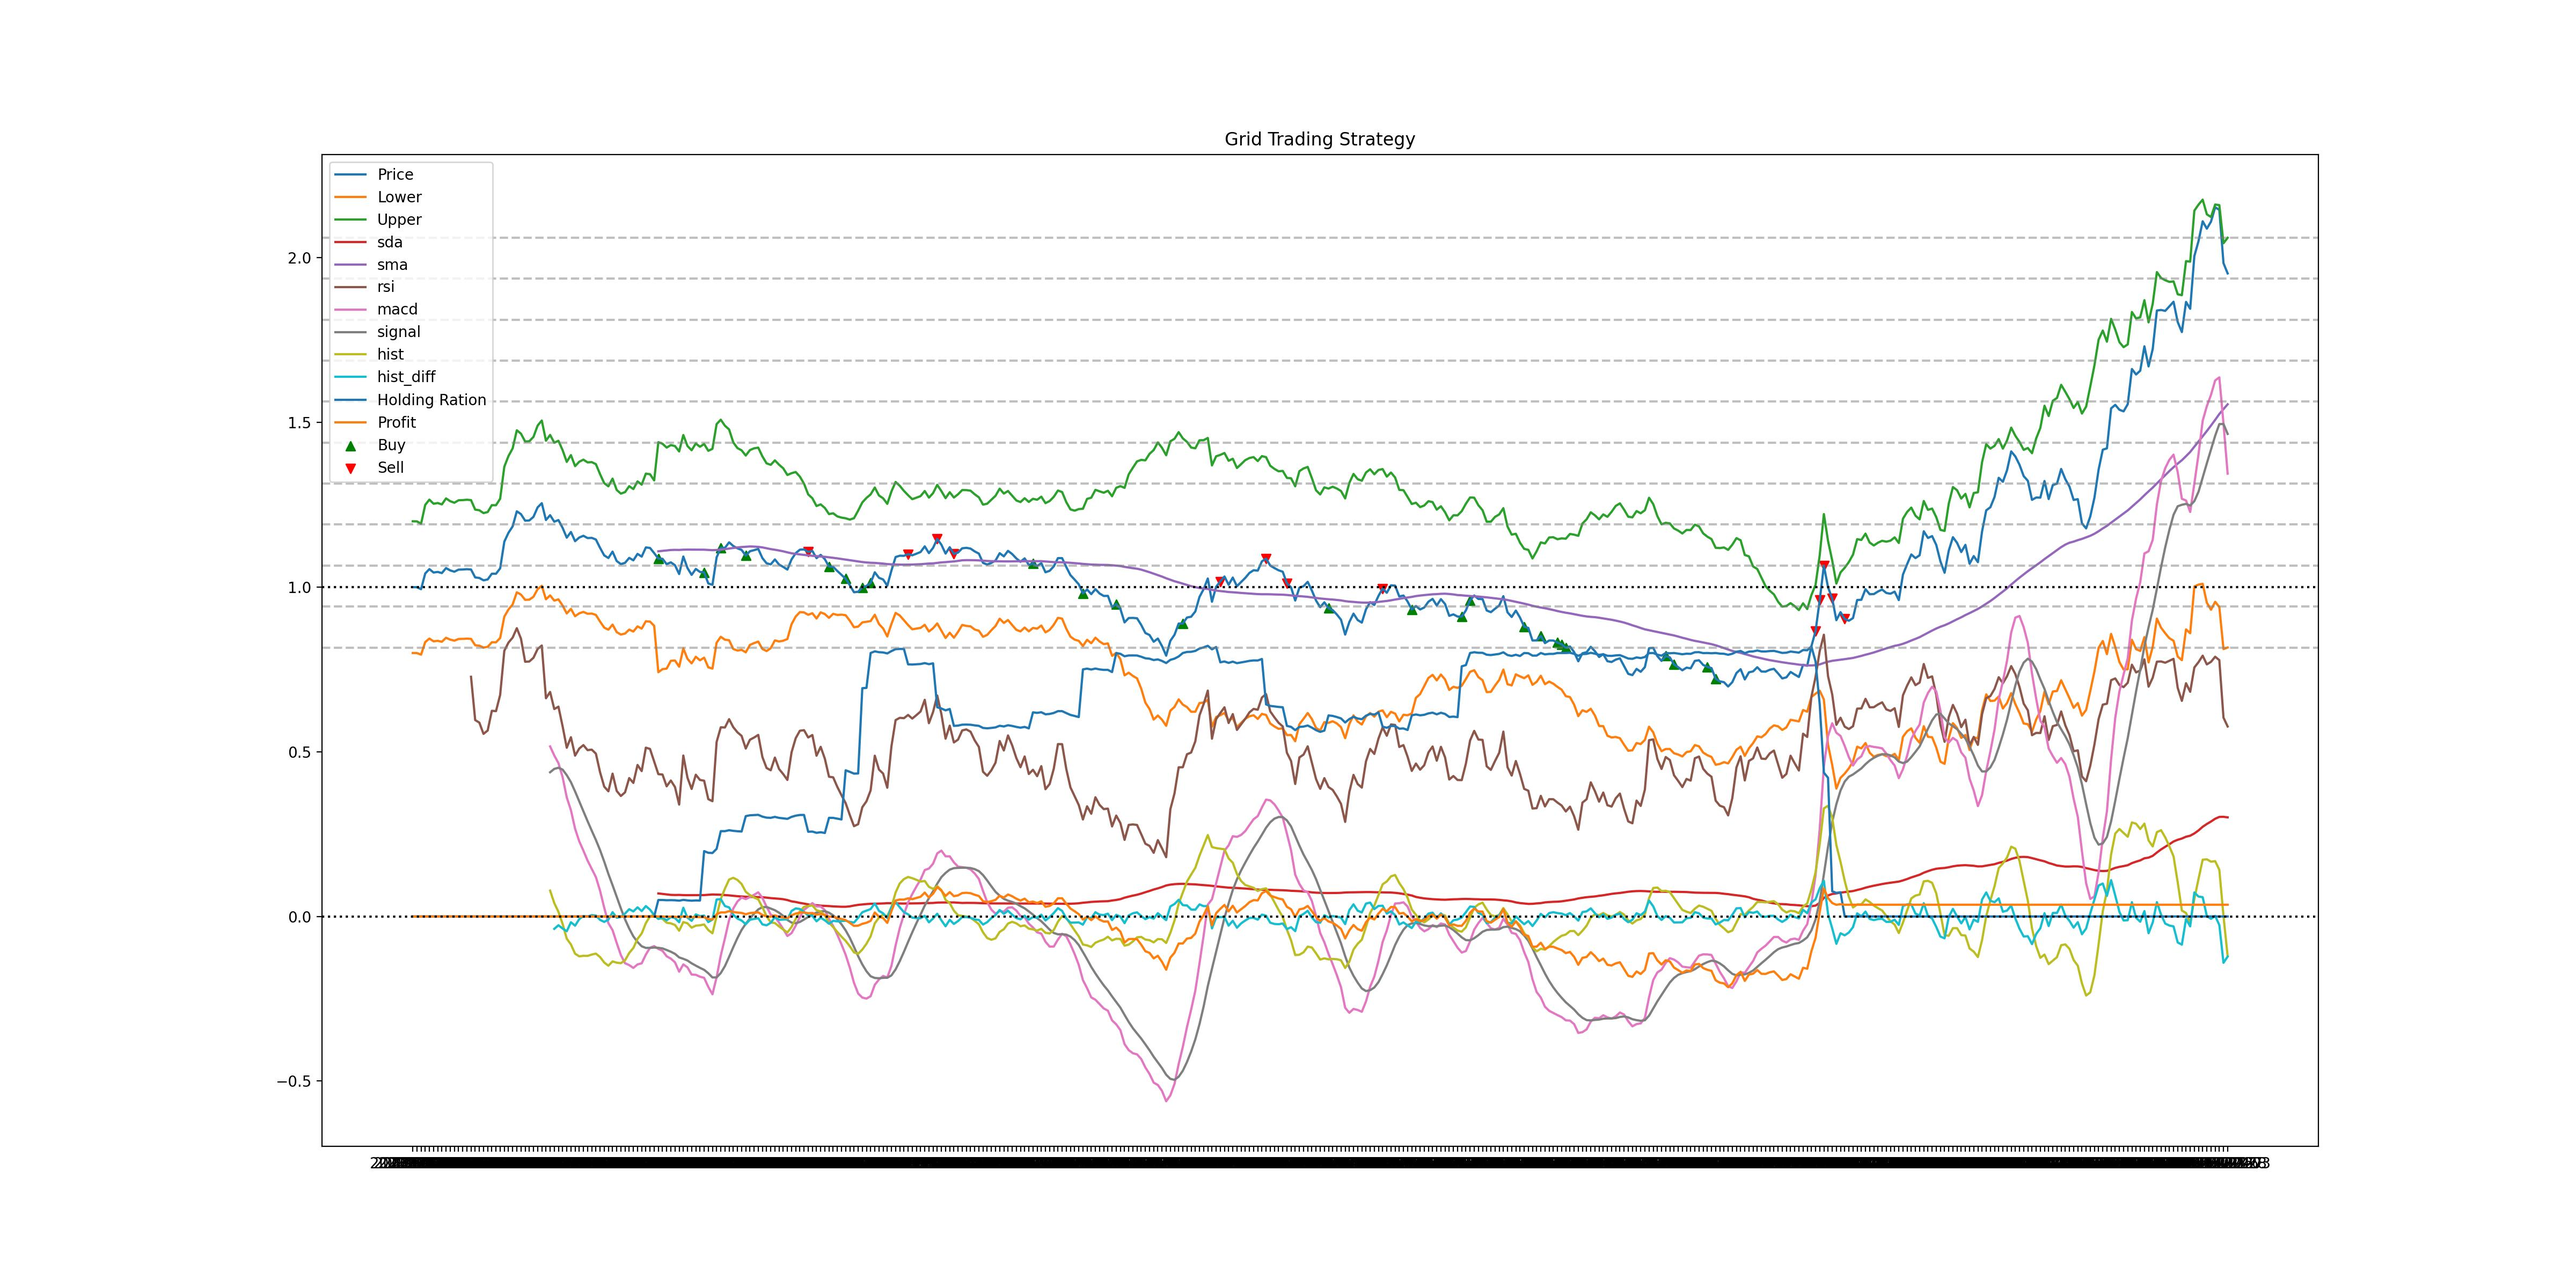
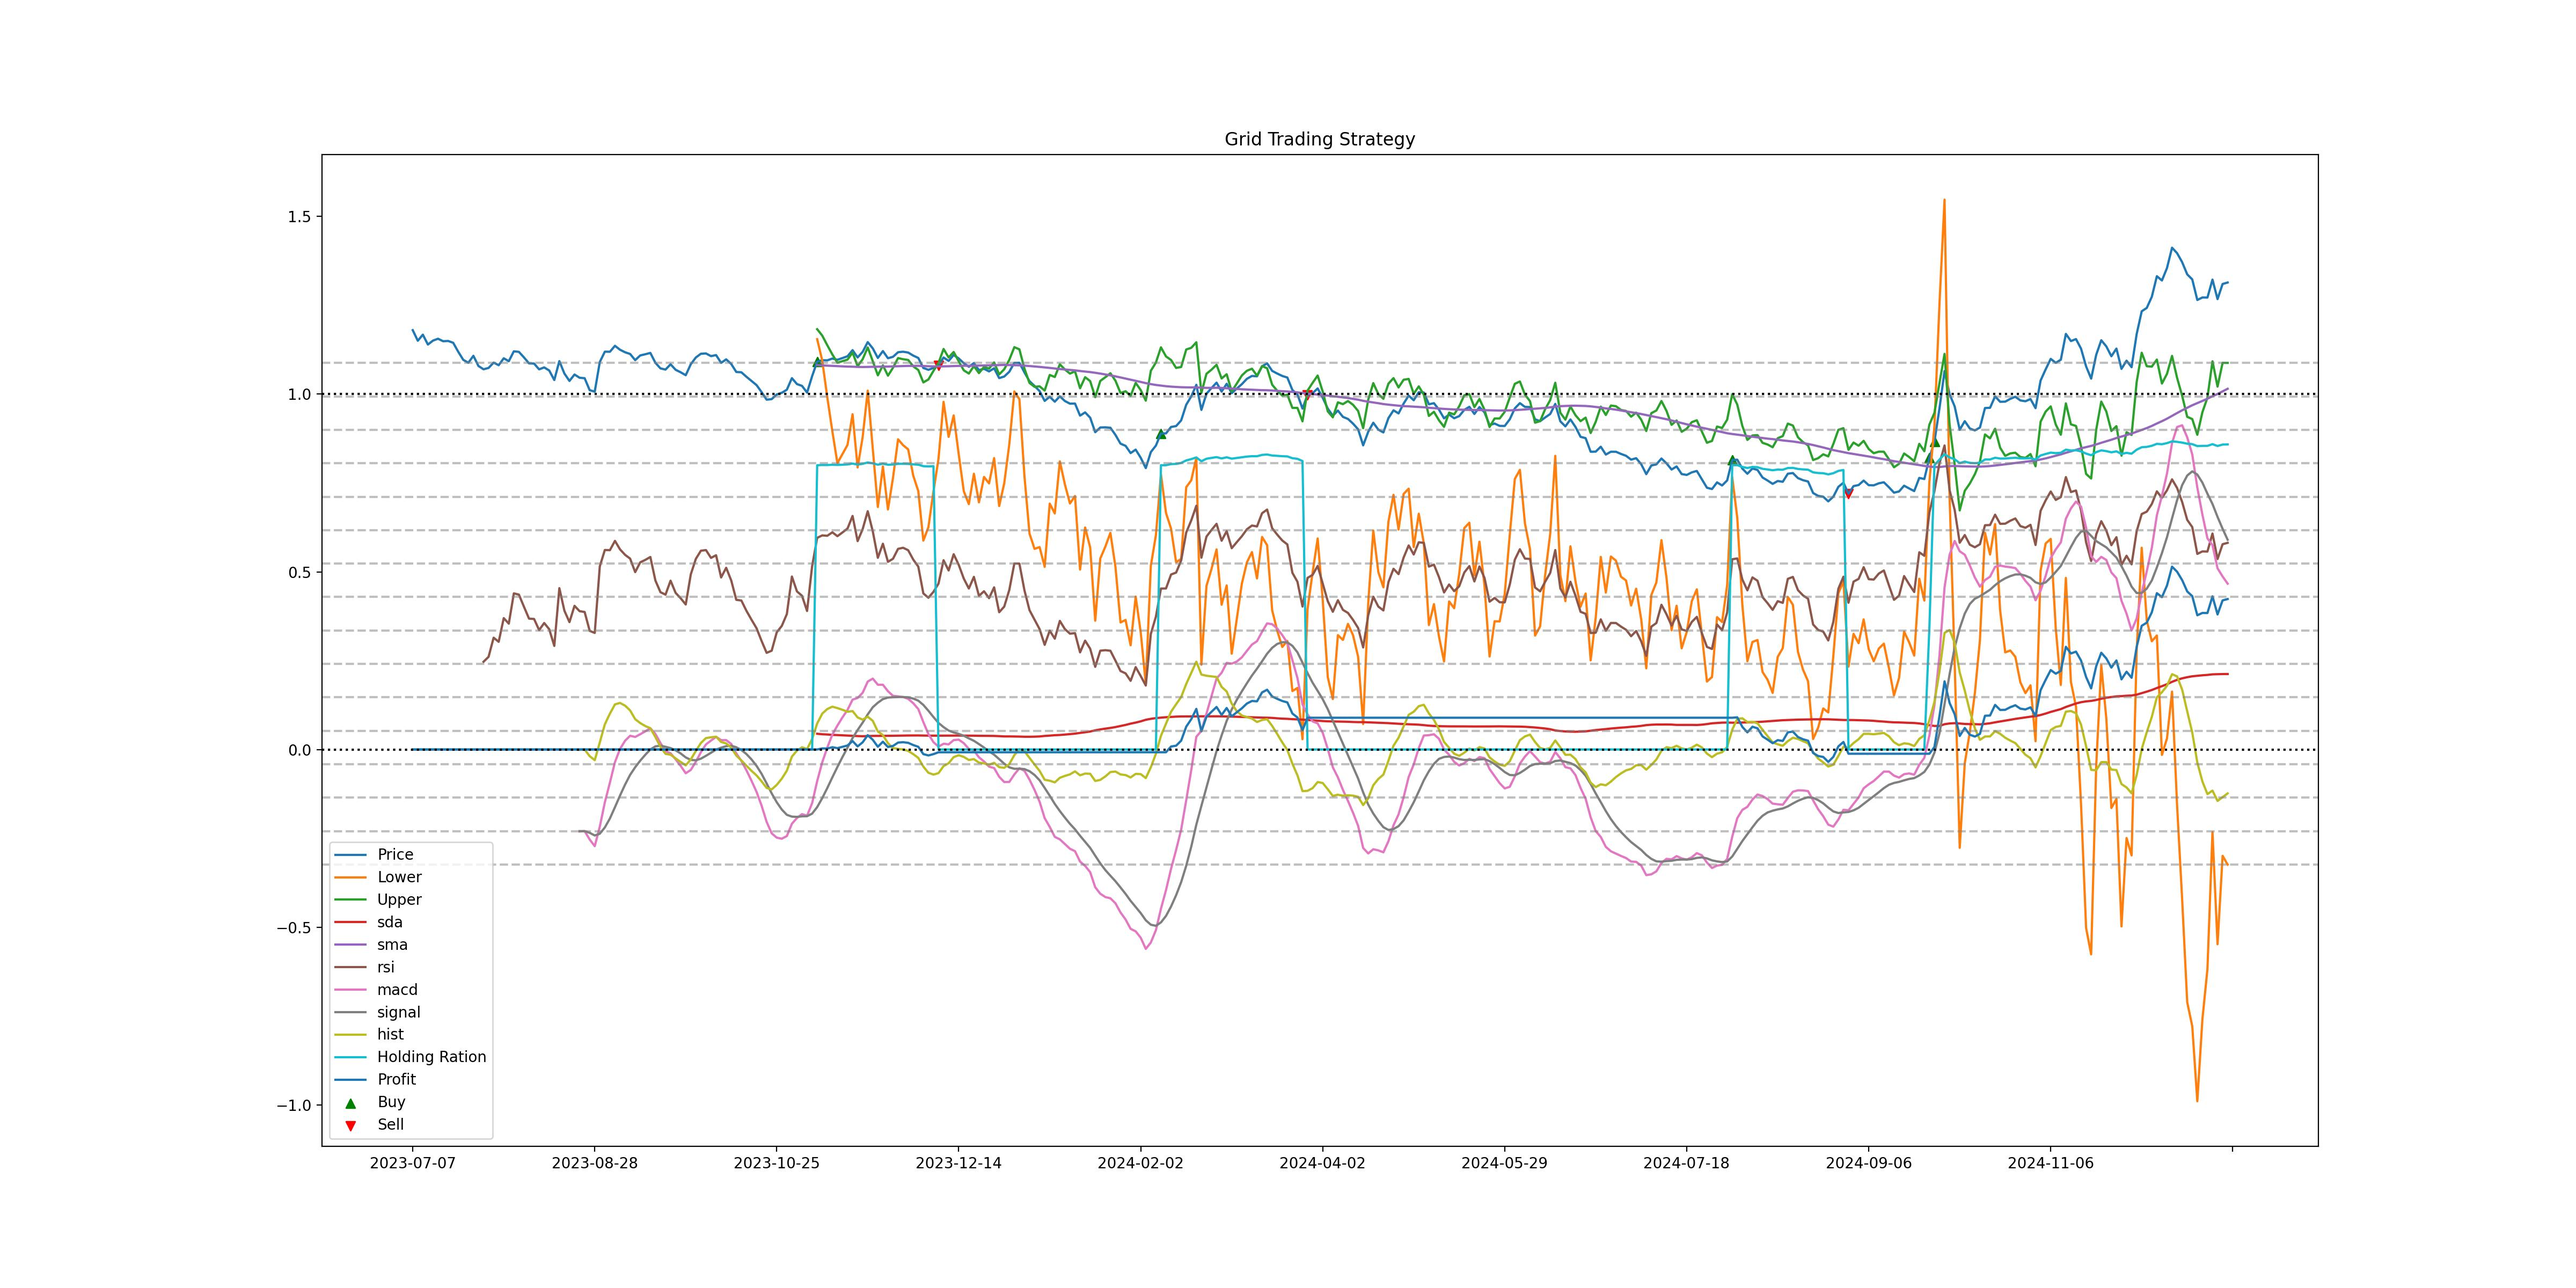
add

diff --git a/ayaa/strategy/grid_strategy.py b/ayaa/strategy/grid_strategy.py
@@ -1,6 +1,7 @@
 import pandas as pd
 import numpy as np
 import matplotlib.pyplot as plt
+import matplotlib.ticker as ticker
 from ayaa.strategy.finance_mgr import FinanceMgr
 from ayaa.utils.perf import calculate_bollinger_bands, calculate_perf
 
@@ -125,42 +126,10 @@ class GridTradingStrategy:
                 'quantity' : real_quantity,
                 'type' : stype,
             })
- 
-    '''def execute_strategy(self, current_date, current_price):
-        """执行策略"""
-        quantity = 0
-        
-        # 检查每个网格线
-        for level in self.grid_levels:
-            # 买入条件：价格低于网格线且未持仓
-            if current_price <= level:
-                order_qty = self.calculate_order_size(current_price)
-                quantity += order_qty
-            # 卖出条件：价格高于网格线且有持仓
-            if current_price >= level:
-                order_qty = self.calculate_order_size(current_price)
-                quantity -= order_qty
 
-        real_quantity = 0
-        stype = ''
-        if quantity > 1:
-            real_quantity = self.financer.buy(current_date, current_price, abs(quantity))
-            stype = 'BUY'
-        if quantity < -1:
-            real_quantity = self.financer.sell(current_date, current_price, abs(quantity))
-            stype = 'SELL'
-        if real_quantity > 1:
-            # print(f'date : {current_date} price : {current_price} quantity  : {real_quantity} type  : {stype}')
-            self.positions.append({
-                'date': current_date,
-                'price': current_price,
-                'quantity' : real_quantity,
-                'type' : stype,
-            })'''
     def backtest(self, symbol, data):
         self.symbol = symbol
         self.data = data
-        # self.ub = calculate_bollinger_bands(data, window=60, num_std=5, price_col='close', fill_na=True)
         self.prepare_data(data)
         for idx, row in data.iterrows():
             self.build_strategy(row)
@@ -208,15 +177,15 @@ class GridTradingStrategy:
         """可视化策略执行"""
         plt.figure(figsize=(24,12))
         plt.plot(self.data['date'], self.data['close'], label='Price')
-        # plt.plot(self.data['date'], self.ub['lower_band'], label='Lower')
-        # plt.plot(self.data['date'], self.ub['upper_band'], label='Upper')
-        # plt.plot(self.data['date'], self.ub['sda'], label='sda')
-        # plt.plot(self.data['date'], self.ub['sma'], label='sma')
-        # plt.plot(self.data['date'], self.ub['rsi'], label='rsi')
-        # plt.plot(self.data['date'], self.ub['macd']*10, label='macd')
-        # plt.plot(self.data['date'], self.ub['signal']*10, label='signal')
-        # plt.plot(self.data['date'], self.ub['hist']*10, label='hist')
-        # plt.plot(self.data['date'], self.ub['hist_diff']*10, label='hist_diff')
+        plt.plot(self.data['date'], self.data['lower_band'], label='Lower')
+        plt.plot(self.data['date'], self.data['upper_band'], label='Upper')
+        plt.plot(self.data['date'], self.data['sda'], label='sda')
+        plt.plot(self.data['date'], self.data['sma'], label='sma')
+        plt.plot(self.data['date'], self.data['rsi'], label='rsi')
+        plt.plot(self.data['date'], self.data['macd']*10, label='macd')
+        plt.plot(self.data['date'], self.data['signal']*10, label='signal')
+        plt.plot(self.data['date'], self.data['hist']*10, label='hist')
+        # plt.plot(self.data['date'], self.data['hist_diff']*10, label='hist_diff')
 
         plt.plot([i['date'] for i in self.holding_rations], [i['ration'] for i in self.holding_rations], label='Holding Ration')
         plt.plot([i['date'] for i in self.holding_rations], [i['profit'] for i in self.holding_rations], label='Profit')
@@ -243,6 +212,7 @@ class GridTradingStrategy:
             plt.axhline(y=level, color='gray', linestyle='--', alpha=0.5)
             
         plt.title('Grid Trading Strategy')
+        plt.gca().xaxis.set_major_locator(ticker.MultipleLocator(len(self.data)/10))
         plt.legend()
         plt.savefig(f'misc/{self.symbol}.jpg', dpi = 200)
         # plt.show()

diff --git a/painter4.py b/painter4.py
@@ -1,0 +1,98 @@
+from tabulate import tabulate
+import optuna
+from typing import Dict, Any
+from functools import lru_cache
+import numpy as np
+from ayaa.maket.data_mgr import DataMgr
+from ayaa.strategy.strategy_mgr import StrategyMgr
+from ayaa.trader.trader_a import TraderA
+from ayaa.trader.trader_c import TraderC
+
+@lru_cache(maxsize=10)
+def get_fund_rank_list(select_num):
+    import akshare as ak
+    fund_open_fund_rank_em_df = ak.fund_open_fund_rank_em(symbol="全部")
+    # print(fund_open_fund_rank_em_df)
+    # print(fund_open_fund_rank_em_df['基金代码'])
+    return fund_open_fund_rank_em_df['基金代码'][np.random.choice(len(fund_open_fund_rank_em_df), select_num)]
+
+
+def generate_test_batch(data, length, batch_num):
+    if len(data) < length:
+        return []
+    test_datas = []
+    for i in np.random.choice(len(data) - length, min(len(data) - length, batch_num)):
+        test_datas.append(data[i:i+length])
+    return test_datas
+
+def collect_data(dm, symbols, start_date, end_date):
+    for syb in symbols:
+        dm.fetch_daily_stock_data('fund', syb, start_date, end_date)
+
+def stats(res, period):
+    ''' 按照涨跌幅大于5% 小于-5%，以及介于两者之间分三类统计，并计算平均盈利率 '''
+    # seperate by holding time
+    stats_res ={'>5%':[], '<-5%':[], '-5%-5%':[], 'total':[]}
+    for r in res:
+        if r['amper'] > 5 :
+            stats_res['>5%'].append(r['diff'])
+        elif r['amper'] < -5 :
+            stats_res['<-5%'].append(r['diff'])
+        else:
+            stats_res['-5%-5%'].append(r['diff'])
+        stats_res['total'].append(r['diff'])
+    finnal = [{'name':k, 'avg':np.mean(s), 'num':len(s)} for k, s in stats_res.items()]
+    print(tabulate(finnal, headers="keys", tablefmt="grid"))
+    #return np.mean([finnal[0]['avg'], finnal[1]['avg'], finnal[2]['avg']])
+    return finnal[-1]['avg']
+
+def evalution(spara):
+    init_cash = 100000
+
+    dmgr = DataMgr()
+    smgr = StrategyMgr()
+    trader = TraderC(dmgr, smgr)
+
+    res = []
+    symbol_num = 10
+    length = 360
+    batch_num = 1
+
+    # symbol_list = get_fund_rank_list(symbol_num)
+    symbol_list = ["004685", "017436", "005939", "501010", "501048", "161122", "320007", "018124", "005827", '270042']
+    #collect_data(dmgr, symbol_list, "2001-01-01", "2025-03-03")
+    #exit(0)
+    for symbol in symbol_list:
+        data = dmgr.fetch_all_daily_stock_data('fund', symbol)
+        batches = generate_test_batch(data, length, batch_num)
+        trader.set_profile(symbol, init_cash)
+        for batch_data in batches:
+            # print(batch_data)
+            res.append(trader.auto_backtest(spara, symbol, batch_data, visualize=True))
+
+    [r.update({'diff':r['profit']-r['amper']}) for r in res]
+    filter = ['symbol', 'diff', 'profit', 'amper', 'trade_times']
+    fres =[{k:d[k] for k in filter} for d in res]
+    print(tabulate(fres, headers="keys", tablefmt="grid"))
+    return stats(res, length) / 100
+
+if __name__ == '__main__':
+    np.random.seed(0)
+    spara = {
+        # financer
+        'max_holding_ration' : 0.8,
+        # strategy
+        'grid_num' : 10,
+        'order_percent' : 0.05,
+        'window' : 60,
+        'num_std' : 5,
+        'sbc5' : 1,
+        'min_width' : 0.2,
+        'max_width' : 0.4,
+    }
+    spara = {'max_holding_ration': 0.8, 'order_percent': 0.16906228159872866, 'u_num_std': 0.20060052911467804, 'l_num_std': 6.8878886392475005, 
+    'u_sbc5': 1.775046498978191, 'l_sbc5': 7.278347871528191, 'max_width': 0.7997296468545225, 'min_width': 0.15540867980513814, 'grid_num': 15, 'window': 81}
+
+    # 执行优化
+    evalution(spara)
+

diff --git a/sqltt.py b/sqltt.py
@@ -1,0 +1,5 @@
+
+# 进入python交互界面
+import pymysql
+db = pymysql.connect(host="localhost" , user="root", password='12345678')
+db.close()
